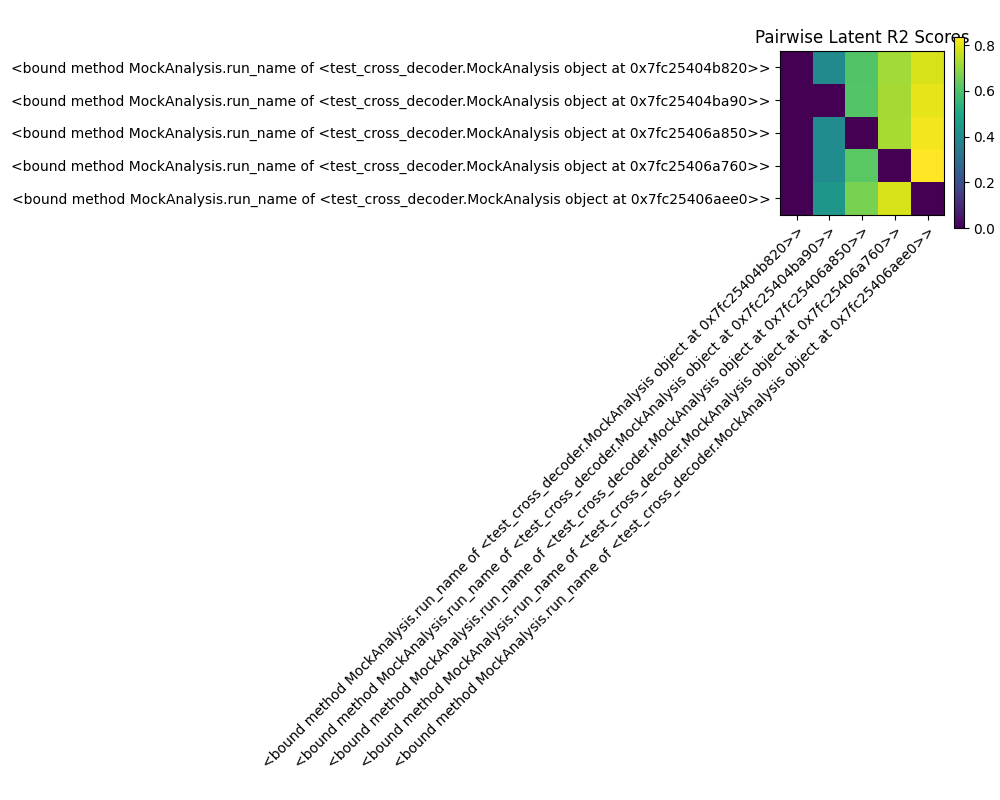
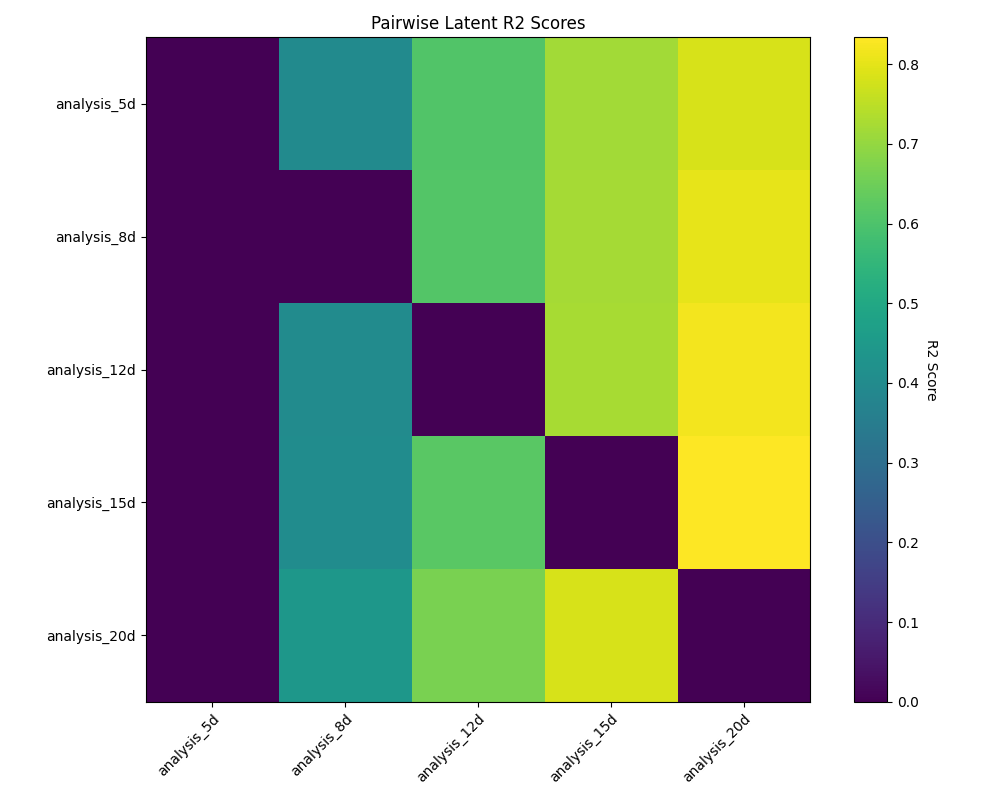
fixed plotting run_name()

diff --git a/src/cross_decoder/cross_decoder.py b/src/cross_decoder/cross_decoder.py
@@ -310,8 +310,8 @@ class CrossDecoder:
         # Set labels
         ax.set_xticks(np.arange(self.num_analyses))
         ax.set_yticks(np.arange(self.num_analyses))
-        ax.set_xticklabels([analysis.run_name for analysis in self.analyses])
-        ax.set_yticklabels([analysis.run_name for analysis in self.analyses])
+        ax.set_xticklabels([analysis.run_name() for analysis in self.analyses])
+        ax.set_yticklabels([analysis.run_name() for analysis in self.analyses])
         
         # Rotate x-axis labels
         plt.setp(ax.get_xticklabels(), rotation=45, ha="right", rotation_mode="anchor")
